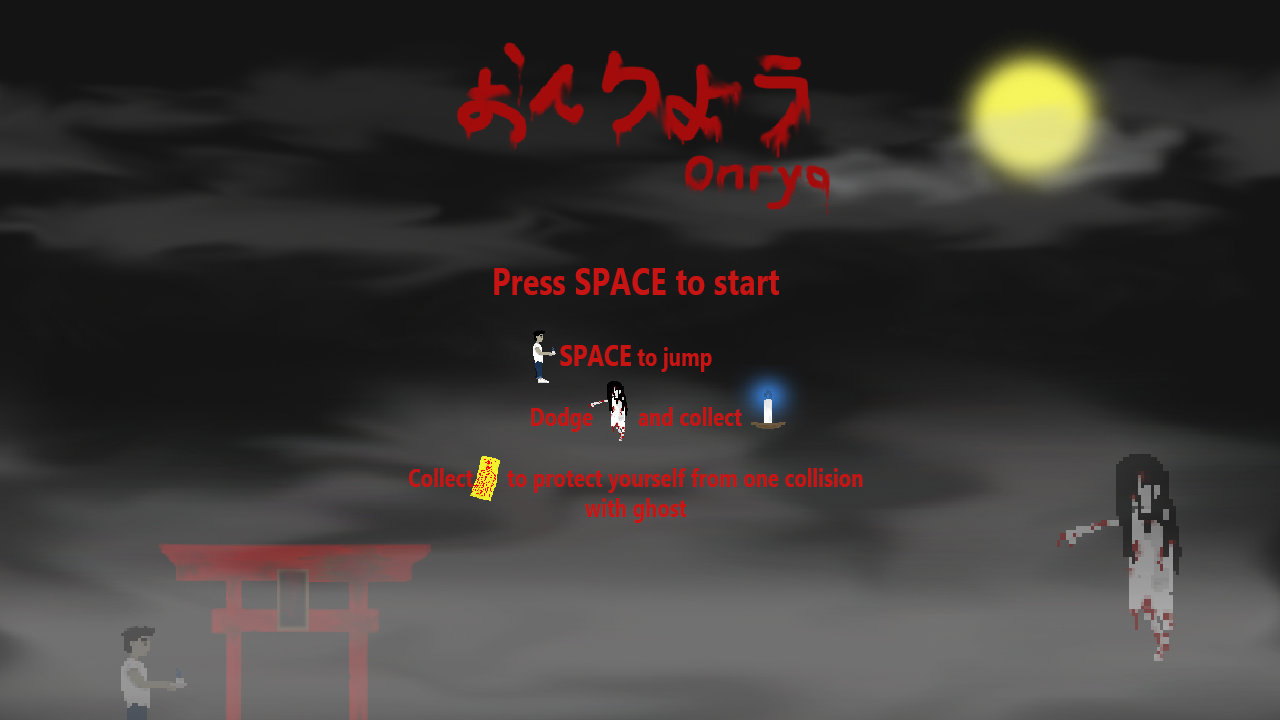
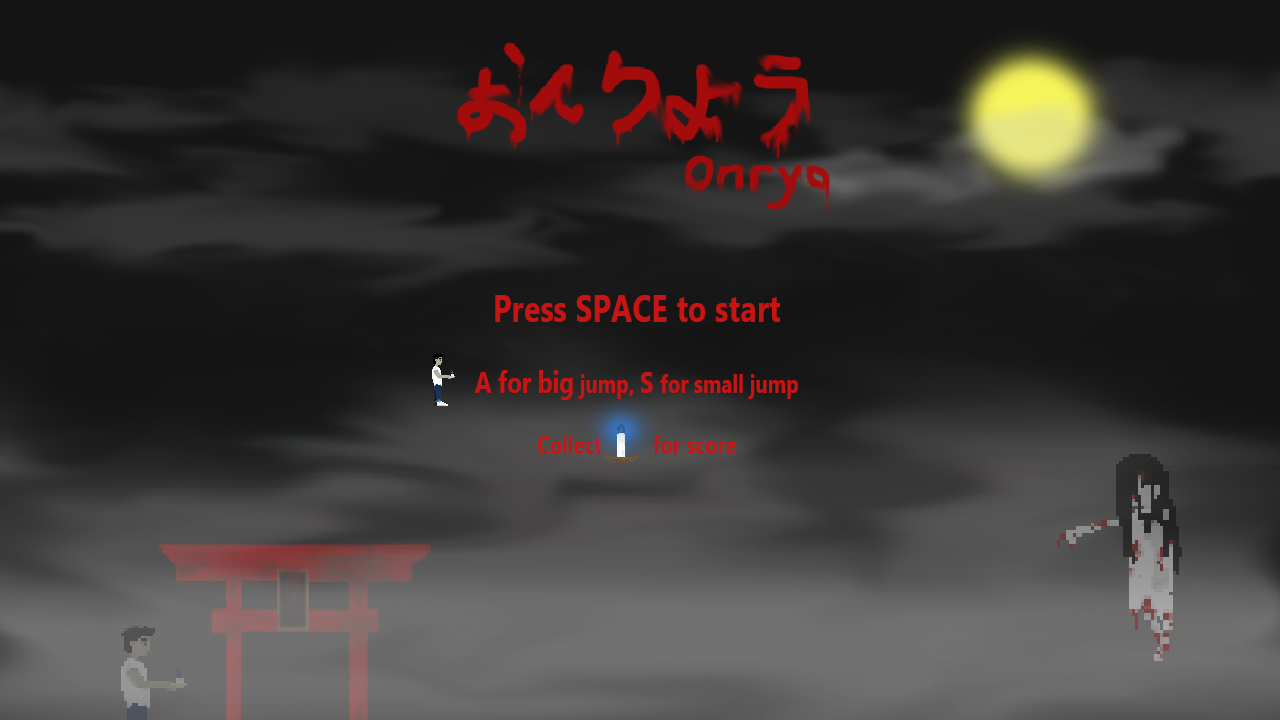
Seventh Commit

Changed region(s): [[0.3125, 0.3667, 0.6875, 0.7333]]

diff --git a/src/scenes/Play.js b/src/scenes/Play.js
@@ -6,23 +6,37 @@ class Play extends Phaser.Scene {
 
     preload() {
         this.load.image("ground", "./assets/ground.png");
-        this.load.image("player", "./assets/player.png");
         this.load.image("ghost", "./assets/ghost.png");
         this.load.image("candle", "./assets/candle.png");
         this.load.image('background', './assets/background.png');
+        this.load.image('candleUI', './assets/candleUI.png');
         this.load.audio('playMusic', './assets/playMusic.mp3');
+        this.load.audio('sizzle', './assets/sizzle.mp3');
+        this.load.audio('death', './assets/death.mp3');
+        this.load.spritesheet('player', './assets/player.png', {frameWidth: 70, frameHeight: 180, startFrame: 0, endFrame: 12});
     }
 
     create() {
-        this.add.image(0, 0, 'background').setOrigin(0, 0);
+        this.background = this.add.tileSprite(0, 0, 1280, 720, 'background').setOrigin(0,0);
+        this.add.image(50, 50, 'candleUI').setOrigin(0, 0);
 
         this.playBGM = this.sound.add('playMusic', {volume: 0.5, loop: true });
         this.playBGM.play();
 
         // add player
+        //this.player = this.physics.add.sprite(200, 380, "player");
         this.player = this.physics.add.sprite(200, 380, "player");
         this.player.setGravityY(900);
         this.ghost = this.physics.add.sprite(400, 200, "ghost");
+
+        this.anims.create({
+            key: 'move',
+            frames: this.anims.generateFrameNumbers('player', {start: 0, end: 12, first: 0}),
+            frameRate: 20,
+            repeat: -1
+        });
+
+        this.player.anims.play('move');
 
         keyA = this.input.keyboard.addKey(Phaser.Input.Keyboard.KeyCodes.A);
         keyS = this.input.keyboard.addKey(Phaser.Input.Keyboard.KeyCodes.S);
@@ -66,7 +80,6 @@ class Play extends Phaser.Scene {
             }
         });
 
-        // player touches the ground
         this.touchGround = this.physics.add.collider(this.player, this.groundOnScreen);
 
         this.addGround(game.config.width, 300, 500);
@@ -78,26 +91,22 @@ class Play extends Phaser.Scene {
         let scoreConfig = {
             fontFamily: 'Comic Sans MS',
             fontSize: '28px',
-            backgroundColor: '#000000',
-            color: '#ffffff',
+            color: '#ff0000',
             align: 'center',
-            padding: {
-                top: 5,
-                bottom: 5
-            },
             fixedWidth: 100
         }
-        this.scoreText = this.add.text(1100, 620, this.score, scoreConfig);
+        this.scoreText = this.add.text(180, 55, this.score, scoreConfig);
 
         this.physics.add.overlap(this.player, this.candleOnScreen, function(player, candle){
+            this.sound.play('sizzle');
             this.tweens.add({
                 targets: candle,
                 alpha: 0,
-                duration: 100,
+                duration: 100
             });
             this.candleOnScreen.kill(candle);
             this.candleOnScreen.remove(candle);
-            this.score += 10;
+            this.score += 1;
             this.scoreText.text = this.score;
         }, null, this);
     }
@@ -124,6 +133,8 @@ class Play extends Phaser.Scene {
     // ground creation
     addGround(groundWidth, xPosition, yPosition) {
         let ground;
+        let velocity = -350;
+
         if (this.groundSpawn.getLength()) {
             ground = this.groundSpawn.getFirst();
             ground.x = xPosition;
@@ -133,9 +144,10 @@ class Play extends Phaser.Scene {
             ground = this.add.tileSprite(xPosition, yPosition, groundWidth, 32, "ground");
             this.physics.add.existing(ground);
             ground.body.setImmovable(true);
-            ground.body.setVelocityX(-350);
+            ground.body.setVelocityX(velocity);
             this.groundOnScreen.add(ground);
         }
+
         this.nextGroundDistance = Phaser.Math.Between(100, 300);
 
         this.time.delayedCall(3000, () => {
@@ -159,6 +171,8 @@ class Play extends Phaser.Scene {
     }
 
     update() {
+        this.background.tilePositionX += 1;
+
         this.player.x = 200;
 
         if (Phaser.Input.Keyboard.JustDown(keyA)) {
@@ -172,6 +186,7 @@ class Play extends Phaser.Scene {
         // game over
         if (this.player.y > game.config.height) {
             this.playBGM.stop();
+            this.sound.play('death');
             this.scene.start('GameOver');
         }
 

diff --git a/src/scenes/Title.js b/src/scenes/Title.js
@@ -22,12 +22,6 @@ class Title extends Phaser.Scene {
     update() {
         if (Phaser.Input.Keyboard.JustDown(spaceBar)) {
             this.titleBGM.stop();
-            /*this.tweens.add({
-                targets: this.titleBGM,
-                duration: 500,
-                volume: 0,
-                onComplete: () => this.titleBGM.stop()
-            })*/
             this.scene.start('Play');    
         }
     }

diff --git a/src/main.js b/src/main.js
@@ -1,3 +1,15 @@
+/*
+Names: Ryan Chen
+       Zhe Kou
+       Chun Yin Chu
+
+Game Title: Onryo
+
+Date Completed:
+
+Creative Tilt: I'm proud of
+*/
+
 let config = {
     type: Phaser.AUTO,
     width: 1280,
